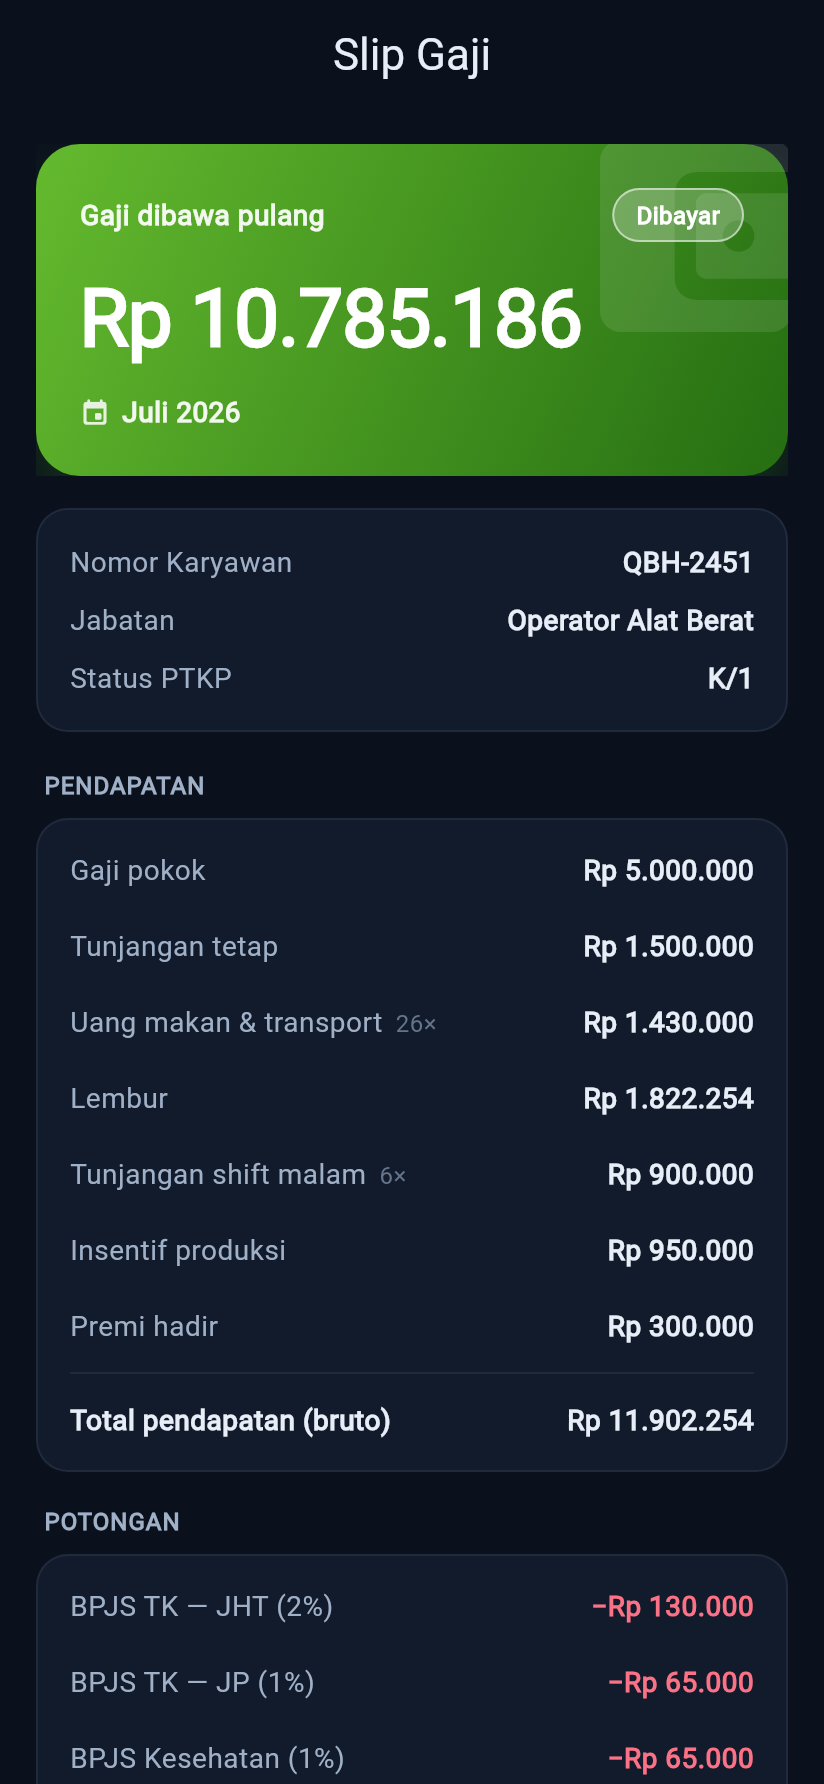
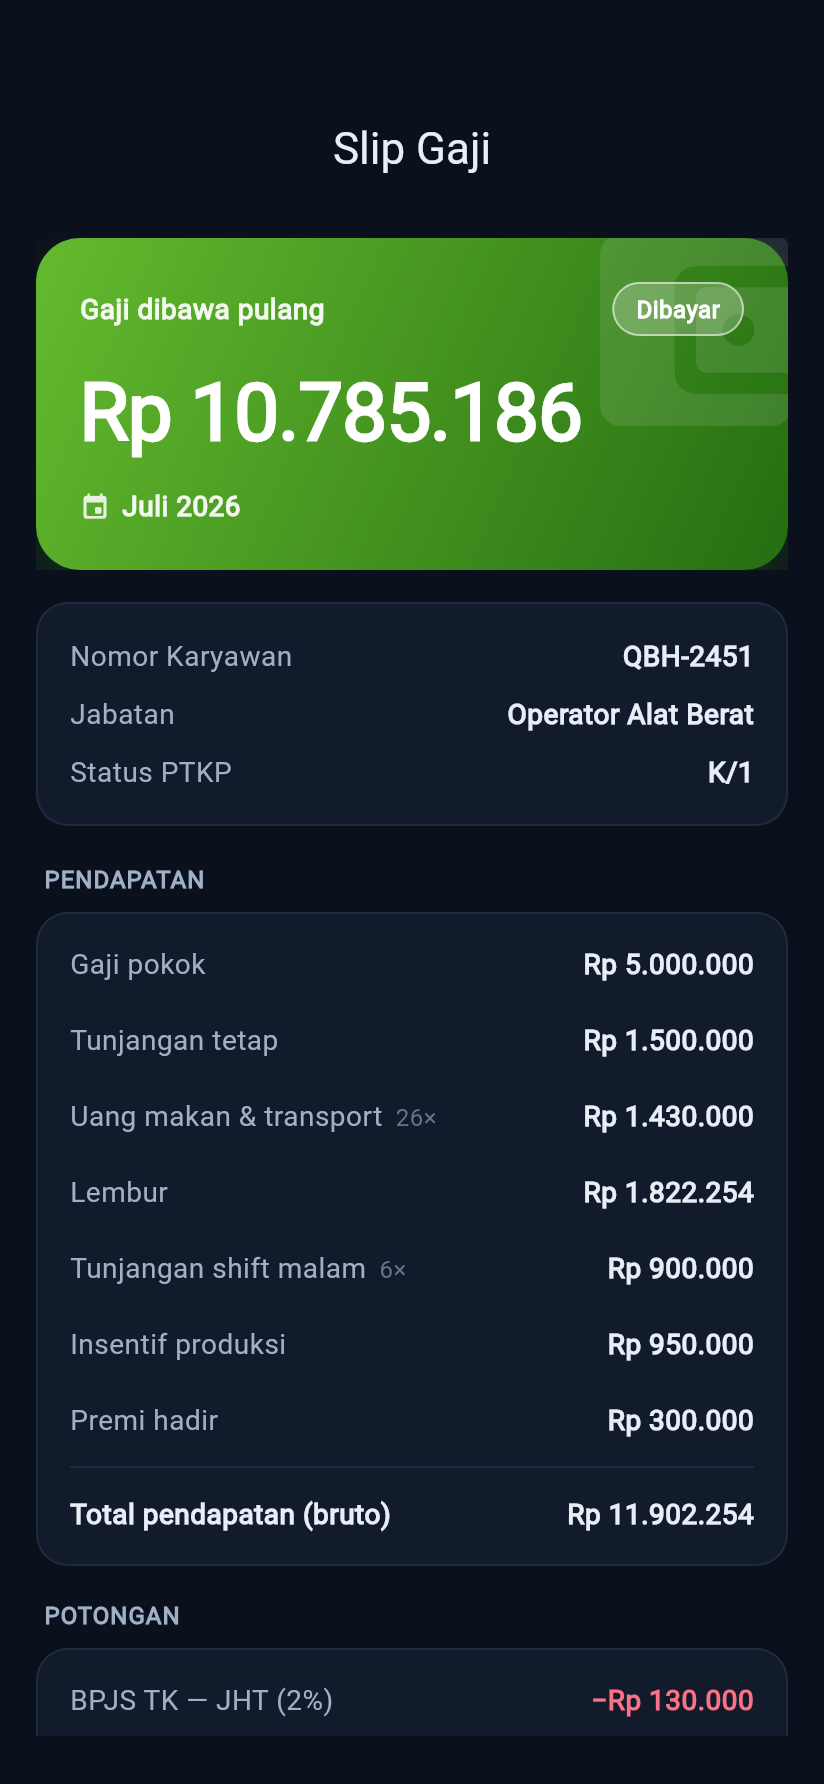
CoalTrack: rebrand + refresh semua screenshot
- Rebrand 'SiAbsen Tambang' -> 'CoalTrack'; hero fokus attendance
  ('Coal Mine Attendance'), payroll tak lagi di headline
- Regenerasi 22 tangkapan layar brand baru: logo transparan (tanpa
  kotak putih, menyatu light/dark), header punya ruang status bar
  (tak mepet lagi), aksi 'Mode Karyawan' tak terpotong
- Tambah img/qubah-mark.png (logo transparan)

diff --git a/index.html b/index.html
@@ -3,8 +3,8 @@
 <head>
 <meta charset="utf-8">
 <meta name="viewport" content="width=device-width, initial-scale=1">
-<title>SiAbsen Tambang — Qubah Group</title>
-<meta name="description" content="SiAbsen Tambang oleh Qubah Group: HRIS absensi anti-curang + penggajian. Presentasi per-slide. Laravel · Vue · Flutter.">
+<title>CoalTrack — Qubah Group</title>
+<meta name="description" content="CoalTrack oleh Qubah Group: absensi anti-curang untuk tambang batu bara. Presentasi per-slide. Laravel · Vue · Flutter.">
 <meta name="theme-color" content="#3C8A12">
 <link rel="icon" href="img/qubah-icon.png">
 <link rel="preconnect" href="https://fonts.googleapis.com">
@@ -124,12 +124,12 @@ ul.checks li b{color:var(--tx)}.dark ul.checks li{color:#eaf6df}.dark ul.checks 
 <section class="slide cover">
   <div class="wrap">
     <img class="logo r" src="img/qubah-full.png" alt="Qubah Group">
-    <h1 class="r">SiAbsen Tambang</h1>
-    <div class="by r">Qubah Group · HRIS Absensi &amp; Payroll</div>
-    <p class="lead r">Absensi <b>anti-curang</b> + penggajian otomatis untuk operasi tambang. Satu aplikasi Flutter (iOS &amp; Android), backend Laravel, portal Vue.</p>
+    <h1 class="r">CoalTrack</h1>
+    <div class="by r">Qubah Group · Coal Mine Attendance</div>
+    <p class="lead r"><b>Absensi anti-curang</b> untuk operasi tambang batu bara — verifikasi wajah, GPS asli, waktu server. Satu aplikasi Flutter (iOS &amp; Android), backend Laravel, portal Vue.</p>
     <div class="chips r">
       <span class="chip">🛡 <b>Anti titip-absen</b></span>
-      <span class="chip">🧾 <b>Payroll + slip PDF</b></span>
+      <span class="chip">🙂 <b>Liveness wajah</b></span>
       <span class="chip">📍 <b>GPS asli</b></span>
       <span class="chip">✅ <b>207+ tes</b></span>
     </div>
@@ -279,7 +279,7 @@ ul.checks li b{color:var(--tx)}.dark ul.checks li{color:#eaf6df}.dark ul.checks 
   <div class="wrap">
     <img class="logo r" src="img/qubah-full.png" alt="Qubah Group" style="box-shadow:0 26px 50px -18px rgba(0,0,0,.5)">
     <h2 class="r" style="font-size:clamp(30px,6vw,56px)">Siap diterapkan di lapangan.</h2>
-    <p class="lead r">HRIS absensi anti-curang + penggajian, end-to-end. Uji coba di satu site, ukur penghematan nyata.</p>
+    <p class="lead r">Absensi anti-curang untuk tambang batu bara, end-to-end. Uji coba di satu site, ukur penghematan nyata.</p>
     <div class="chips r" style="margin-top:26px">
       <span class="chip">Qubah Group</span>
       <span class="chip"><a href="https://ksatriabintangsamudra.my.id" style="color:inherit">ksatriabintangsamudra.my.id</a></span>

diff --git a/README.md b/README.md
@@ -1,8 +1,8 @@
 <div align="center">
 
-# ⛏ SiAbsen Tambang
+# ⛏ CoalTrack
 
-### HRIS **Absensi anti-curang + Penggajian (Payroll)** untuk perusahaan tambang batu bara
+### **Absensi anti-curang** untuk perusahaan tambang batu bara — *Coal Mine Attendance*
 
 Dibangun untuk **Qubah Group** · Laravel · Vue · Flutter
 
